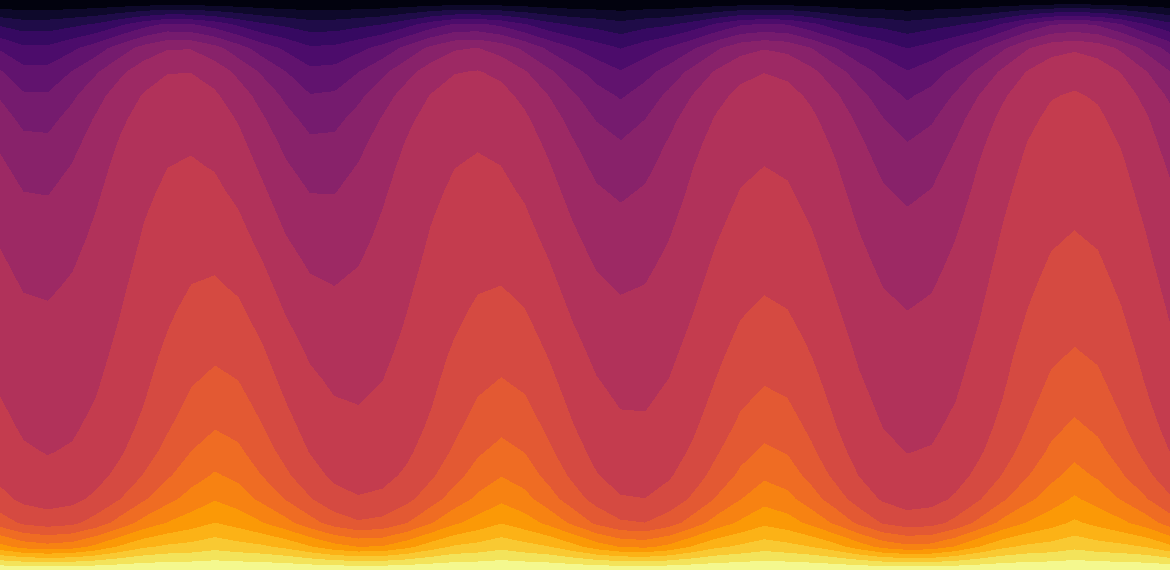
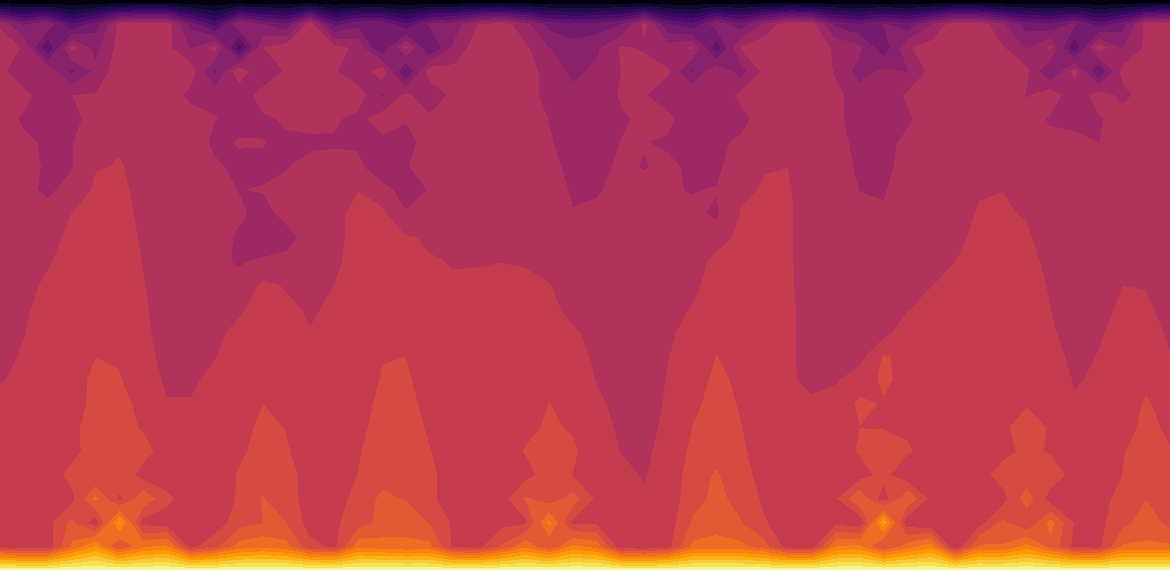
convective transition

diff --git a/rb_convection.py b/rb_convection.py
@@ -102,50 +102,50 @@ class CML_convection:
 		self.Vx = np.random.normal(scale=1e-3, size=self.shape)
 		self.Vy = np.random.normal(scale=1e-3, size=self.shape)
 
-m, n = 25, 50
-c = 1.0
-temp = 1.0
-nu = 0.5
-eta = 0.3
-kappa = 0.8
-model = CML_convection((m, n), temp, nu, eta, kappa, c)
+if __name__ == '__main__':
+	m, n = 25, 50
+	c = 1.0
+	temp = 10.0
+	nu = 0.5
+	eta = 0.3
+	kappa = 0.8
+	model = CML_convection((m, n), temp, nu, eta, kappa, c)
 
-# pdb.set_trace()
+	# pdb.set_trace()
 
-''' Save as plot ''' 
+	''' Save as plot ''' 
 
-for _ in range(600):
-	model.step()
+	for _ in range(600):
+		model.step()
 
-# Double plot
-fig, axs = plt.subplots(1, 2, figsize=(12, 4))
-axs[0].contourf(model.T, 20, cmap='inferno_r')
-axs[1].quiver(model.Vx, model.Vy)
-axs[0].axis('off')
-axs[1].axis('off')
+	fig, ax = plt.subplots(figsize=(12, 6))
+	ax.contourf(model.T, 20, cmap='inferno_r')
+	ax.axis('off')
 
-# # Single plot
-# fig, ax = plt.subplots(figsize=(12, 6))
-# ax.contourf(model.T, 20, cmap='inferno_r')
-# ax.axis('off')
+	fig.tight_layout()
+	fig.savefig('rb_convection.png', bbox_inches='tight', pad_inches=0)
 
-fig.tight_layout()
-fig.savefig('rb_convection.png', bbox_inches='tight', pad_inches=0)
+	fig, ax = plt.subplots(figsize=(12, 6))
+	ax.quiver(model.Vx, model.Vy)
+	ax.axis('off')
 
-plt.show()
+	fig.tight_layout()
+	fig.savefig('rb_convection_field.png', bbox_inches='tight', pad_inches=0)
 
-''' Save as video ''' 
-# from matplotlib.animation import FFMpegWriter
+	plt.show()
 
-# writer = FFMpegWriter(fps=15, metadata={'title': 'rb_convectoin'})
-# fig, axs = plt.subplots(1, 2, figsize=(13, 4))
+	''' Save as video ''' 
+	# from matplotlib.animation import FFMpegWriter
 
-# with writer.saving(fig, 'rb_convection.mp4', dpi=100):
-# 	model.reset()
-# 	for _ in tqdm(range(1000)):
-# 		axs[0].clear()
-# 		axs[1].clear()
-# 		axs[0].contourf(model.T, 20, cmap='inferno_r')
-# 		axs[1].quiver(model.Vx, model.Vy)
-# 		writer.grab_frame()
-# 		model.step()
+	# writer = FFMpegWriter(fps=15, metadata={'title': 'rb_convectoin'})
+	# fig, axs = plt.subplots(1, 2, figsize=(13, 4))
+
+	# with writer.saving(fig, 'rb_convection.mp4', dpi=100):
+	# 	model.reset()
+	# 	for _ in tqdm(range(1000)):
+	# 		axs[0].clear()
+	# 		axs[1].clear()
+	# 		axs[0].contourf(model.T, 20, cmap='inferno_r')
+	# 		axs[1].quiver(model.Vx, model.Vy)
+	# 		writer.grab_frame()
+	# 		model.step()

diff --git a/rb_conv_trans.py b/rb_conv_trans.py
@@ -1,0 +1,38 @@
+''' Transition to R-B convection ''' 
+
+import seaborn as sns
+import matplotlib.pyplot as plt
+import pdb
+import numpy as np
+from typing import Tuple
+import colorcet as cc
+from tqdm import tqdm
+
+from cml import *
+from rb_convection import CML_convection
+
+np.random.seed(9999)
+
+m, n = 25, 50
+c = 1.0
+nu = 0.5
+eta = 0.3
+kappa = 0.8 
+
+temp_rng = np.linspace(0, 3.0, 80)
+data = []
+
+for temp in tqdm(temp_rng):
+	model = CML_convection((m, n), temp, nu, eta, kappa, c)
+	for _ in range(300):
+		model.step()
+	mid = np.sqrt(model.Vx[12]**2 + model.Vy[12]**2)
+	rms = np.sqrt((mid**2).mean())
+	data.append(rms)
+
+fig, ax = plt.subplots(figsize=(12, 4))
+ax.plot(temp_rng, data)
+
+fig.tight_layout()
+fig.savefig('rb_conv_trans.png', bbox_inches='tight', pad_inches=0)
+plt.show()
